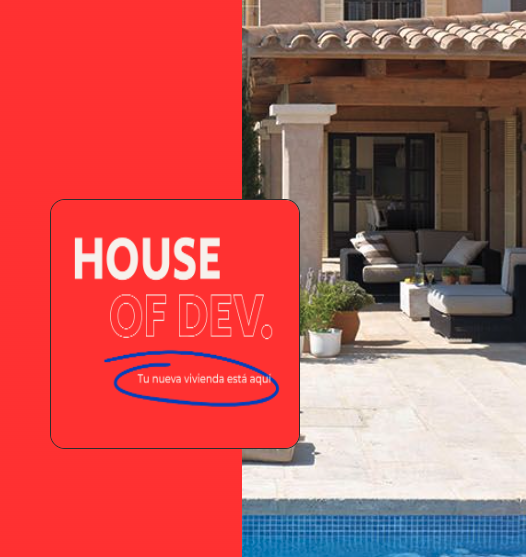
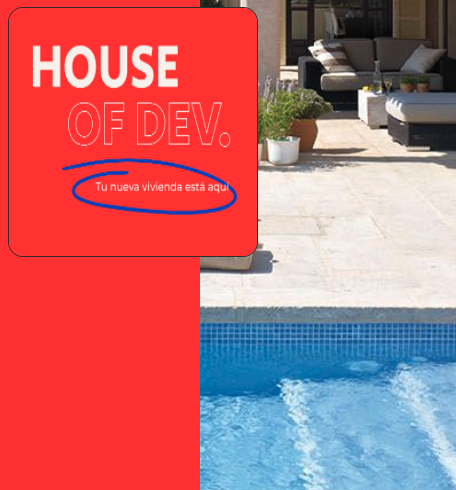
add My favourites videos project

diff --git a/portfolio-website/app/components/ProjectsSection.jsx b/portfolio-website/app/components/ProjectsSection.jsx
@@ -21,7 +21,7 @@ const projectsData = [
     title: "House of Dev",
     description:
       "House Of Dev App is an application where you can rent or buy properties within Argentina and visit the properties that the customer is interested in.",
-    image: "/images/projects/houseOfDevOne.png",
+    image: "/images/projects/houseOfDev.png",
 
     tag: ["All", "Web"],
     gitUrl:
@@ -45,7 +45,7 @@ const projectsData = [
     title: "Portfolio",
     description:
       "This portfolio serves as a snapshot of my journey as a developer, showcasing a diverse range of projects that I've undertaken. Each project is a testament to my adaptability and dedication to learn and mastering new technologies. Whether it's creating responsive web designs, developing interactive mobile apps, or implementing frontend and backend solutions.",
-    image: "/images/projects/portfolioUno.png",
+    image: "/images/projects/portfolioia.png",
     tag: ["All", "Web"],
     gitUrl: "https://github.com/Javierdigital85/portfolioNextjs",
     previewUrl:
@@ -57,11 +57,22 @@ const projectsData = [
     title: "To Do List",
     description:
       "This a to-do-app using the PERN stack.It also has a user registration and once registered you have to login to use the app.You can store many duties as you want and plans for your weekend and month.What I like about this project is that I have leart to implement testing.In the backend there are Unit Tests made with Jest and Integration testing with Supertest and Jest.For the frontend I worked with Cypress to do a E2E testing and try out every functionality for many users at the same time and works amazingly",
-    image: "/images/projects/toDoList.png",
+    image: "/images/projects/todolist.png",
     tag: ["All", "Web"],
     gitUrl: "https://github.com/Javierdigital85/Front-ToDoApp",
     previewUrl: "https://github.com/Javierdigital85/Back-ToDoApp-",
     web: "https://front-todoapp.onrender.com/",
+  },
+  {
+    id: 6,
+    title: "My favourites videos",
+    description:
+      "This is a video gallery where you can store all your favorite videos and manage your personal video preferences. The technologies I implemented includes React Vite, Node.js, PostgreSQL, Tailwind CSS, and TypeScript.",
+    image: "/images/projects/videos.png",
+    tag: ["All", "Web"],
+    gitUrl: "https://github.com/Javierdigital85/front-videos-reactvite-typescript-tailwind",
+    previewUrl: "https://github.com/Javierdigital85/back-videos-node-postgres-typescript",
+    web: "https://front-videos-reactvite-typescript.onrender.com",
   },
 ];
 

diff --git a/portfolio-website/app/components/ProjectsCard.jsx b/portfolio-website/app/components/ProjectsCard.jsx
@@ -1,6 +1,7 @@
 import React from "react";
 import { CodeBracketIcon, EyeIcon } from "@heroicons/react/16/solid";
 import Link from "next/link";
+import "../styles/tarjeta.css"
 
 const ProjectsCard = ({
   imgUrl,
@@ -11,10 +12,10 @@ const ProjectsCard = ({
   web,
 }) => {
   return (
-    <div>
+    <div className="tarjeta">
       <div
         className="h-52 md:h-72 rounded-t-xl relative group"
-        style={{ background: `url(${imgUrl})`, backgroundSize: "cover" }}
+        style={{ background: `url(${imgUrl})  center center/cover no-repeat` }}
       >
         <div className="overlay items-center justify-center absolute top-0 left-0 w-full h-full bg-[#181818] bg-opacity-0 hidden group-hover:flex group-hover:bg-opacity-80 transition-all duration-500">
           <Link
@@ -41,10 +42,10 @@ const ProjectsCard = ({
             <Link
               target="_blank"
               href={web}
-              className="h-24 w-24 border-2 relative rounded-full border-[#ADB7BE] hover:border-white group/link"
+              className="h-24 w-24 ml-2 border-2 relative rounded-full border-[#ADB7BE] hover:border-white group/link"
             >
               <p className="h-18 w-15 text-[#ADB7BE] absolute top-1/2 left-1/2 transform -translate-x-1/2 -translate-y-1/2  cursor-pointer group-hover/link:text-white">
-                Deployed
+                DEPLOYED
               </p>
             </Link>
           ) : (

diff --git a/portfolio-website/app/styles/tarjeta.css b/portfolio-website/app/styles/tarjeta.css
@@ -1,0 +1,8 @@
+.tarjeta {
+  transition: transform 0.3s ease, border 0.3s ease;
+}
+.tarjeta:hover {
+  cursor: pointer;
+  transform: scale(1.05);
+  border-radius: 20px;
+}
